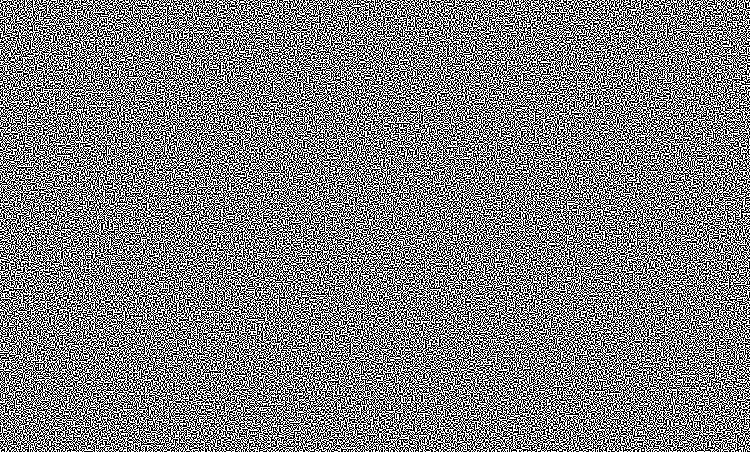
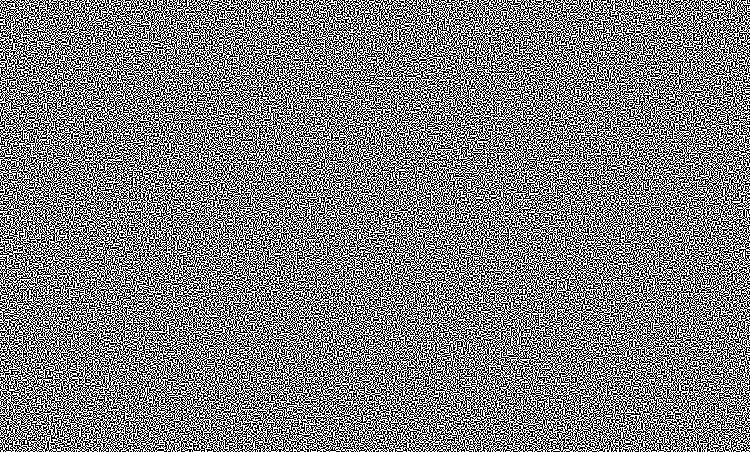
photoEncryption version 2

diff --git a/photoEncryption/photoEncryption.cpp b/photoEncryption/photoEncryption.cpp
@@ -98,7 +98,7 @@ int main(int argc, char* argv[]){
 			          + inputImage.at<uchar>(i+1,j+1) ) / 4;
 			colorCase = rand()%6;
 
-			if (rand()%256 > average) { // white
+			if (rand()%256 < average) { // white
 				setColor(encryptImage1, i, j, colorCase);
 				setColor(encryptImage2, i, j, colorCase);
 			}
